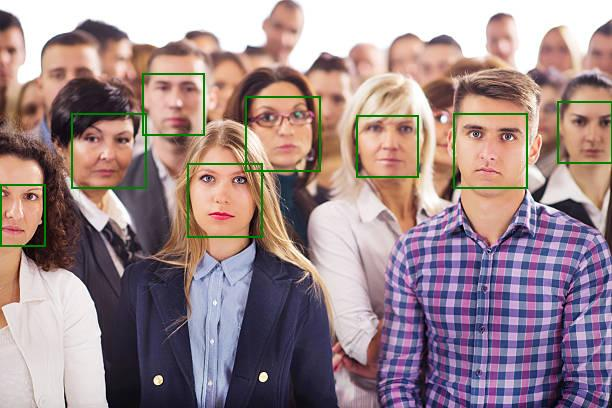
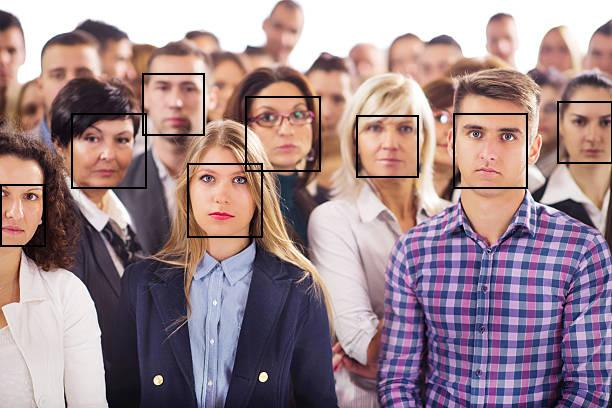
added some challenging faces

diff --git a/main.py b/main.py
@@ -12,14 +12,14 @@ import imageio
 
 
 
-test_file = face_recognition.load_image_file("multiplePeople.jpg", mode="RGB") #always need to load the file first before face recognition
-test_face = cv2.imread("multiplePeople.jpg") #this opens up a new window showcasing the image specfied
+test_file = face_recognition.load_image_file("Designer.png", mode="RGB") #always need to load the file first before face recognition
+test_face = cv2.imread("Designer.png") #this opens up a new window showcasing the image specfied
 
 locations = face_recognition.face_locations(test_file) #gives the co-ordinates of each face in a seperate tuple in a main list
 print(locations) #printing the locations to verify the number of faces
 
 
-with Image.open("multiplePeople.jpg") as img:
+with Image.open("Designer.png") as img:
     draw = ImageDraw.Draw(img)
 
     #running a for loop to let the system draw rectangles on all the faces
@@ -28,9 +28,11 @@ with Image.open("multiplePeople.jpg") as img:
         #the co-ordinate here should be in the order of left, top, right, bottom
         rectangle_coords = (locations[coordinate][3], locations[coordinate][0], locations[coordinate][1], locations[coordinate][2])
         #draw.rectangle is a function used to draw rectangles, the function needs co-ordinates, outline color, and width as parameters
-        draw.rectangle(rectangle_coords, outline="green", width=2)
+        draw.rectangle(rectangle_coords, outline=(255, 0, 0), width=2)
 
-    img.save("multiple_new_detected.jpg")
+    img.save("challenging.png")
+
+exit()
 
 #########                          VIDEO                                #######
 
